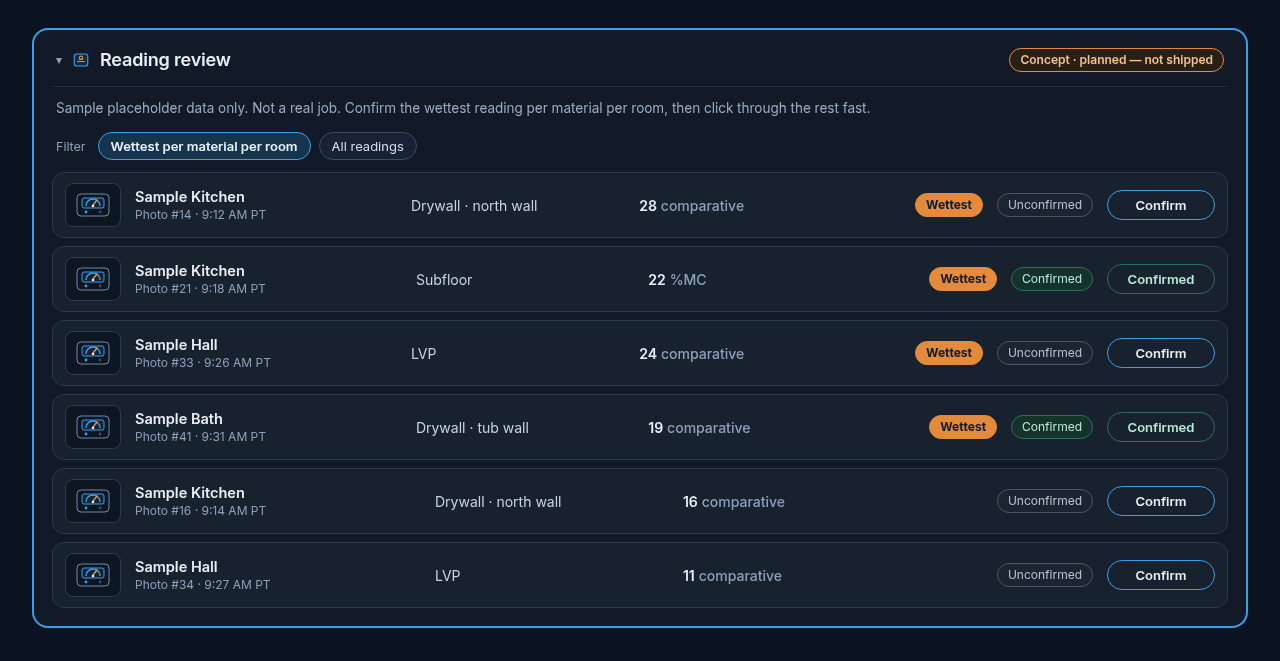
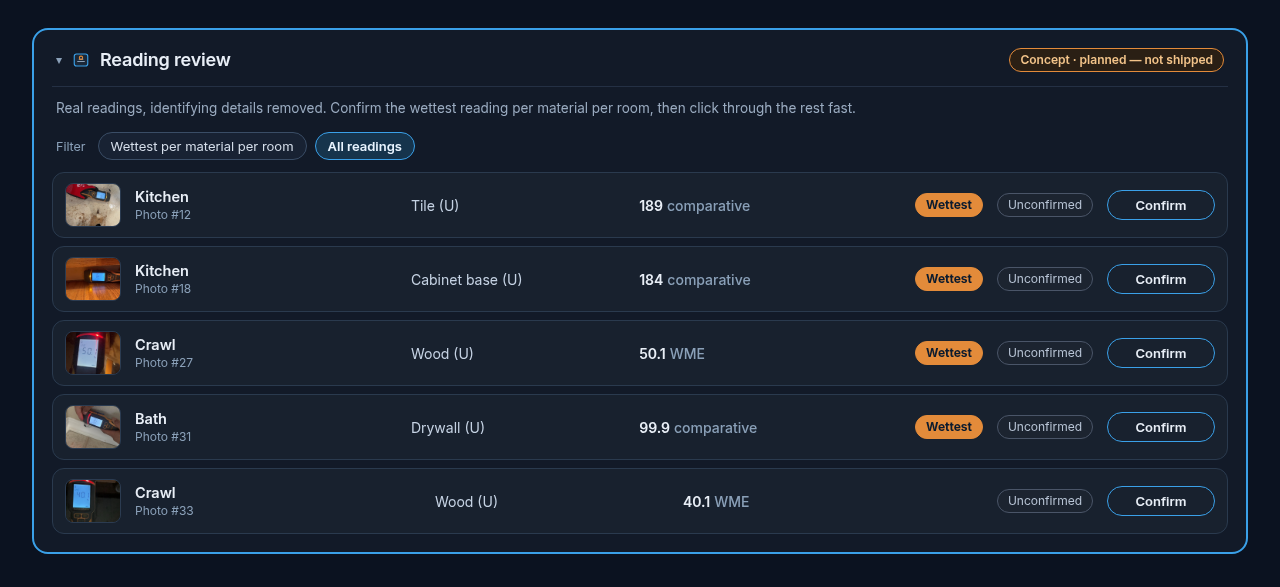
Set the restokit page to kit 1.0.0 and refresh Reading review
Kicker is Kit 1.0.0. The Reading review concept shot uses real
readings with identifying details removed. Do not merge.

diff --git a/restokit/index.html b/restokit/index.html
@@ -52,7 +52,7 @@
   <div class="app-bar">
     <div class="wrap">
       <h1 id="product-name" class="rk-logo"><picture><source srcset="../assets/img/restokit/restokit_logo_horizontal_light.svg" media="(prefers-color-scheme: light)"><img src="../assets/img/restokit/restokit_logo_horizontal_dark.svg" width="412" height="128" alt="RestoKit"></picture></h1>
-      <p class="kicker">Kit 0.9.20</p>
+      <p class="kicker">Kit 1.0.0</p>
     </div>
   </div>
   <div class="wrap">
@@ -422,7 +422,7 @@
       <details class="tools-accordion" id="app">
         <summary id="app-h">Optional tool build-out <span class="acc-hint">feature showroom · tap to open</span></summary>
         <div class="tools-accordion-body">
-          <p>These are the board&#x27;s tools as they look today, one screenshot each, running on demo data. Every name, job number and address is made up. Reading review is a planned concept, not a shipped tool; its shot uses sample placeholder data only. The board ties into the RestoKit kit (the rules), the tower API (serves board.json), read-only Encircle digs (job data), the board manual and scope_bot. Tap any shot to enlarge.</p>
+          <p>These are the board&#x27;s tools as they look today, one screenshot each, running on demo data. Every name, job number and address is made up. Reading review is a planned concept, not a shipped tool; its shot uses real readings, with identifying details removed. The board ties into the RestoKit kit (the rules), the tower API (serves board.json), read-only Encircle digs (job data), the board manual and scope_bot. Tap any shot to enlarge.</p>
       <div class="tool" id="t-00_overview"><h3>Main page, all sections collapsed</h3><a class="app-hero" href="#shot-00_overview"><img src="img/showroom/00_overview.png" alt="Main page, all sections collapsed" loading="lazy"></a><p>The board&#x27;s front page. One Ops panel with a collapsible section per tool; each header shows a live count or status (jobs on board, trucks staffed, stops today).</p><ul><li>Collapse all / Expand all</li><li>Sync stamp and job count in the header</li><li>Desktop and phone layouts</li></ul><p class="tie"><strong>Ties in:</strong> Reads board.json, which the tower host rebuilds from read-only Encircle digs.</p></div>
       <div class="tool" id="t-01_personnel"><h3>Personnel</h3><a class="app-hero" href="#shot-01_personnel"><img src="img/showroom/01_personnel.png" alt="Personnel" loading="lazy"></a><p>Who is on the crew today, their role and the truck they&#x27;re in.</p><ul><li>Role and default vehicle per person</li><li>Tap a name for skills, licenses and notes</li><li>Local-only edits, never synced</li></ul><p class="tie"><strong>Ties in:</strong> Feeds Vehicles and Dispatch so crews are suggested from people who are actually available.</p></div>
       <div class="tool" id="t-02_vehicles"><h3>Vehicles</h3><a class="app-hero" href="#shot-02_vehicles"><img src="img/showroom/02_vehicles.png" alt="Vehicles" loading="lazy"></a><p>Seats people into trucks for the day.</p><ul><li>Drag or tap to seat a person</li><li>Crew suggestions from today&#x27;s jobs, two-person jobs first</li><li>Return to defaults / set defaults</li></ul><p class="tie"><strong>Ties in:</strong> Uses Personnel plus the job board&#x27;s due stops; the seats drive Dispatch and the Labor ratio.</p></div>
@@ -440,7 +440,7 @@
       <div class="tool" id="t-13_features"><h3>Features</h3><a class="app-hero" href="#shot-13_features"><img src="img/showroom/13_features.png" alt="Features" loading="lazy"></a><p>A searchable list of every board feature and the reason it exists.</p><ul><li>57 features grouped by tool</li><li>Each one says why: a kit rule or an ops rule</li><li>Search box</li></ul><p class="tie"><strong>Ties in:</strong> Ties each feature back to the kit version it follows (references hidden in this shot).</p></div>
       <div class="tool" id="t-14_dev"><h3>Dev</h3><a class="app-hero" href="#shot-14_dev"><img src="img/showroom/14_dev.png" alt="Dev" loading="lazy"></a><p>Developer notes and a systems check.</p><ul><li>How the board reads Encircle: data flow, write policy, PII handling, refresh cadence</li><li>Version history</li><li>Live systems check of the tower host</li></ul><p class="tie"><strong>Ties in:</strong> Documents the tower API and the read-only Encircle digs. Section bodies are collapsed here.</p></div>
       <div class="tool" id="t-15_manual"><h3>Manual / Lookup</h3><a class="app-hero" href="#shot-15_manual"><img src="img/showroom/15_manual.png" alt="Manual / Lookup" loading="lazy"></a><p>The board manual: searchable chapters with quick-lookup chips.</p><ul><li>Chapters and sections with expand/collapse</li><li>Quick chips: moisture readings, containment, asbestos, PPE, photos and more</li><li>Cross-links into board tools</li></ul><p class="tie"><strong>Ties in:</strong> A field reference that follows the kit; only chapter headings are shown here.</p></div>
-      <div class="tool" id="t-17_reading_review"><h3>Reading review (concept)</h3><a class="app-hero" href="#shot-17_reading_review"><img src="img/showroom/17_reading_review.png" alt="Reading review concept mockup with sample placeholder data. Not a real job." loading="lazy"></a><p>Reading review: confirm the wettest reading per material per room, click through the rest fast. Concept.</p><ul><li>Planned feature, not shipped</li><li>When no audio was recorded, confirm the wettest reading per material per room first, by voice or tap</li><li>The rest stay unconfirmed but stay backed by their photos, which can be checked if a line is questioned</li><li>Optional click-through of every row on a fast review screen</li><li>Shown here with sample placeholder data, not a real job</li></ul><p class="tie"><strong>Ties in:</strong> Follows the kit&#x27;s photo evidence limits. Confirmation stays on the board; the encircle bot owns Encircle writes.</p></div>
+      <div class="tool" id="t-17_reading_review"><h3>Reading review (concept)</h3><a class="app-hero" href="#shot-17_reading_review"><img src="img/showroom/17_reading_review.png" alt="Reading review concept mockup with real readings, identifying details removed." loading="lazy"></a><p>Reading review: confirm the wettest reading per material per room, click through the rest fast. Concept.</p><ul><li>Planned feature, not shipped</li><li>When no audio was recorded, confirm the wettest reading per material per room first, by voice or tap</li><li>The rest stay unconfirmed but stay backed by their photos, which can be checked if a line is questioned</li><li>Optional click-through of every row on a fast review screen</li><li>Shown here with real readings, identifying details removed</li></ul><p class="tie"><strong>Ties in:</strong> Follows the kit&#x27;s photo evidence limits. Confirmation stays on the board; the encircle bot owns Encircle writes.</p></div>
       <a class="app-lightbox" id="shot-00_overview" href="#t-00_overview"><img src="img/showroom/00_overview.png" alt="Main page, all sections collapsed"><span>Main page, all sections collapsed · tap to close</span></a><a class="app-lightbox" id="shot-01_personnel" href="#t-01_personnel"><img src="img/showroom/01_personnel.png" alt="Personnel"><span>Personnel · tap to close</span></a><a class="app-lightbox" id="shot-02_vehicles" href="#t-02_vehicles"><img src="img/showroom/02_vehicles.png" alt="Vehicles"><span>Vehicles · tap to close</span></a><a class="app-lightbox" id="shot-16_job_digest" href="#t-16_job_digest"><img src="img/showroom/16_job_digest.png" alt="Job Digest"><span>Job Digest · tap to close</span></a><a class="app-lightbox" id="shot-03_job_board" href="#t-03_job_board"><img src="img/showroom/03_job_board.png" alt="Job board"><span>Job board · tap to close</span></a><a class="app-lightbox" id="shot-04_labor_ratio" href="#t-04_labor_ratio"><img src="img/showroom/04_labor_ratio.png" alt="Labor ratio"><span>Labor ratio · tap to close</span></a><a class="app-lightbox" id="shot-05_triage" href="#t-05_triage"><img src="img/showroom/05_triage.png" alt="Triage"><span>Triage · tap to close</span></a><a class="app-lightbox" id="shot-06_dispatch" href="#t-06_dispatch"><img src="img/showroom/06_dispatch.png" alt="Dispatch"><span>Dispatch · tap to close</span></a><a class="app-lightbox" id="shot-07_map" href="#t-07_map"><img src="img/showroom/07_map.png" alt="Map"><span>Map · tap to close</span></a><a class="app-lightbox" id="shot-08_hazard_survey" href="#t-08_hazard_survey"><img src="img/showroom/08_hazard_survey.png" alt="Hazard survey"><span>Hazard survey · tap to close</span></a><a class="app-lightbox" id="shot-09_scopebot" href="#t-09_scopebot"><img src="img/showroom/09_scopebot.png" alt="ScopeBot"><span>ScopeBot · tap to close</span></a><a class="app-lightbox" id="shot-10_templates" href="#t-10_templates"><img src="img/showroom/10_templates.png" alt="Templates"><span>Templates · tap to close</span></a><a class="app-lightbox" id="shot-11_pm_analysis" href="#t-11_pm_analysis"><img src="img/showroom/11_pm_analysis.png" alt="PM analysis"><span>PM analysis · tap to close</span></a><a class="app-lightbox" id="shot-12_file_quality" href="#t-12_file_quality"><img src="img/showroom/12_file_quality.png" alt="File quality"><span>File quality · tap to close</span></a><a class="app-lightbox" id="shot-13_features" href="#t-13_features"><img src="img/showroom/13_features.png" alt="Features"><span>Features · tap to close</span></a><a class="app-lightbox" id="shot-14_dev" href="#t-14_dev"><img src="img/showroom/14_dev.png" alt="Dev"><span>Dev · tap to close</span></a><a class="app-lightbox" id="shot-15_manual" href="#t-15_manual"><img src="img/showroom/15_manual.png" alt="Manual / Lookup"><span>Manual / Lookup · tap to close</span></a><a class="app-lightbox" id="shot-17_reading_review" href="#t-17_reading_review"><img src="img/showroom/17_reading_review.png" alt="Reading review (concept)"><span>Reading review (concept) · tap to close</span></a>
         </div>
       </details>
